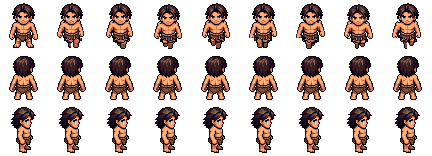
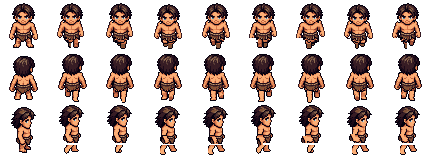
Marche du soldat reprise de celle du héros : dos et profil

diff --git a/PROGRESS.md b/PROGRESS.md
@@ -1,6 +1,6 @@
 # INCR-AGE — Suivi du projet
 
-**État : marche du soldat reprise de celle du héros, vers le bas (touche F4), faite, en commits locaux, en attente de validation (non poussé, pas de tag). Soldat PixelLab dans le groupe validé et publié. Héros PixelLab validé et publié. Troupes organiques (lot 1), lots 1 à 4 de la diversification de l'armée et voie C, étapes 1 à 6 (zone témoin complète), validés et publiés. Audio terminé et validé.**
+**État : marche du soldat reprise de celle du héros, face, dos et profil (touche F4), faite, en commits locaux, en attente de validation (non poussé, pas de tag). Soldat PixelLab dans le groupe validé et publié. Héros PixelLab validé et publié. Troupes organiques (lot 1), lots 1 à 4 de la diversification de l'armée et voie C, étapes 1 à 6 (zone témoin complète), validés et publiés. Audio terminé et validé.**
 **Validé : phases 1, 2 (lots A et B), 3 (lots 3A, 3B, 3C) — tags `phase-1`, `phase-2a`, `phase-2b`, `phase-3a`, `phase-3b`, `phase-3c`. Plans : `docs/PHASE_2_PLAN.md`, `docs/PHASE_3_PLAN.md`.**
 Titre du jeu non choisi : « INCR-AGE » est le nom du dossier, pas un titre.
 
@@ -310,7 +310,7 @@ Voir les priorités 2 et 3 du plan artistique.
 - **Héros PixelLab à l'essai** (03/11/2026), validé par le porteur du projet et publié : version retenue de l'export (la moins détaillée), à sa taille réelle (46 à 50 px), derrière la touche F3 ou l'argument `-- --hero-skin=pixellab` ; le sprite actuel reste le défaut, rien n'est enregistré. Apparence seulement : collisions, vitesse, portée, combat, caméra et sauvegarde inchangés. Planche assemblée par `tools/pack_pixellab.gd` depuis `assets/source/pixellab/hero/`. Détail et vérifications : `docs/PLAN_GRAPHIQUE.md`, sections 7 et 8.
 - **Soldat PixelLab dans le groupe** (03/11/2026), validé par le porteur du projet et publié : soldat de base (poses fixes, balancement de marche calculé) pour tous les compagnons, avec le héros PixelLab ; F3 bascule désormais le groupe entier, `-- --skin=pixellab` au lancement ; espacement de la formation ×1,5 dans ce rendu ; rôles, statistiques, collisions, sauvegarde et règles du suivi inchangés. Tour complet à 8 compagnons : 149,8 s, 60 FPS, 6 retours forcés. Détail et limites : `docs/PLAN_GRAPHIQUE.md`, section 10.
 - **Marche fabriquée sans PixelLab, prototype vers le bas et de profil** (03/11/2026), jugé insuffisant, mis de côté (fichiers gardés) : `tools/animate_walk.gd` découpe les membres de la pose fixe du soldat (pixels entiers, ni rotation ni lissage) pour des cycles de 4 images (face, puis profil avec une jambe éloignée recopiée et assombrie) ; F4 le compare en jeu à la marche balancée validée (apparence PixelLab, F3). Rien d'autre ne change. Détail et limites : `docs/PLAN_GRAPHIQUE.md`, section 11.
-- **Marche du soldat reprise de celle du héros, vers le bas** (03/11/2026), en attente de validation (commit local, non poussé) : `tools/transfer_walk.gd` garde les jambes et le mouvement de la vraie marche PixelLab du héros (8 images) et y replace la tête, le torse et les bras du soldat, recalés à chaque image ; massue effacée, jambe masquée refaite en miroir. F4 l'affiche en jeu (apparence PixelLab, F3). Détail et limites : `docs/PLAN_GRAPHIQUE.md`, section 12.
+- **Marche du soldat reprise de celle du héros, face, dos et profil** (03/11/2026), en attente de validation (commits locaux, non poussés) : `tools/transfer_walk.gd` garde les jambes et le mouvement de la vraie marche PixelLab du héros (8 images) et y replace la tête, le torse et les bras du soldat, recalés à chaque image ; massue effacée, jambe masquée refaite en miroir. De profil, les jambes masquées par la massue sont reprises d'une autre image du cycle. F4 l'affiche en jeu (apparence PixelLab, F3). Détail et limites : `docs/PLAN_GRAPHIQUE.md`, section 12.
 
 - **Voie C, étape 6 : falaises, escalier et rebords** (section 15 de `docs/WORLD_ART_PLAN.md`), validée par le porteur du projet le 27/10/2026 (retouches comprises) et publiée :
   - `cliffs.png` (26 tuiles) dessinée par le nouvel outil `tools/draw_cliffs.gd` : faces haute et basse en strates (3 variantes chacune), coins saillants arrondis, coins rentrants, escalier et ses joues, ombre au pied, rebords ouest, est et nord ; couleurs contrôlées contre la palette ;

diff --git a/docs/PLAN_GRAPHIQUE.md b/docs/PLAN_GRAPHIQUE.md
@@ -355,3 +355,25 @@ jaune) et `marche_bas_transfert_en_jeu.png` (groupe descendant, taille réelle).
 pagne un peu plus long ; la main gauche (à l'écran), refaite en miroir aux rangées basses, a l'ombrage
 inversé. Pour les autres directions, la même méthode demandera ses réglages : de dos, la massue est
 moins visible ; de profil, elle passe devant le corps, ce sera la direction la plus délicate.
+
+**Dos et profil (ajoutés le 03/11/2026, en attente de validation)** : même outil, réglages par direction.
+- **Dos** : même géométrie que la face ; la massue est à droite de l'image, la jambe refaite en miroir
+  est donc la droite. La zone des bras du héros est effacée sur une hauteur fixe, quel que soit le
+  balancement : un bras levé laissait passer un bout de manche à hauteur de la main (corrigé aussi
+  pour la face).
+- **Profil** : la massue pend devant les jambes sur 5 images sur 8 et passe devant le corps. Du héros,
+  on ne garde que les jambes (dès la rangée 41, sans la queue du manche en arrière) ; tout le haut
+  vient du soldat (tête, torse et pagne, main), recalé sur le mouvement du héros. Les jambes de profil
+  ont presque la même silhouette à l'image k et à k + 4 (seuls les rôles des jambes proche et
+  éloignée s'échangent) : les images 0, 1 et 7, masquées, reprennent les jambes des images 4, 5 et 3.
+  Aux images 2 et 6, la massue masque les deux jambes partout : elles reprennent celles de l'image 3.
+  Le bras forme le bord arrière du corps ; le vide que laisse la main en balançant reprend la couleur
+  du torse voisin, avec son contour.
+- En jeu (F3 puis F4), les trois directions utilisent ces marches ; plus aucun balancement.
+- Captures : `docs/art/soldat/marche_bas_transfert.png`, `marche_dos_transfert.png`,
+  `marche_profil_transfert.png` (8 images, ×4, ligne des pieds en jaune) et
+  `marche_trois_directions_en_jeu.png` (de dos, vers la droite, vers la gauche, taille réelle).
+- **Limites du profil** : les jambes s'arrêtent un bref instant à chaque pas (images 2-3 et 6-7
+  identiques en bas) ; la jambe proche et la jambe éloignée gardent le même ombrage d'un pas à
+  l'autre ; la main qui part en arrière forme un petit moignon. Pour aller plus loin, il faudrait
+  redessiner à la main les jambes des images 2 et 6.
